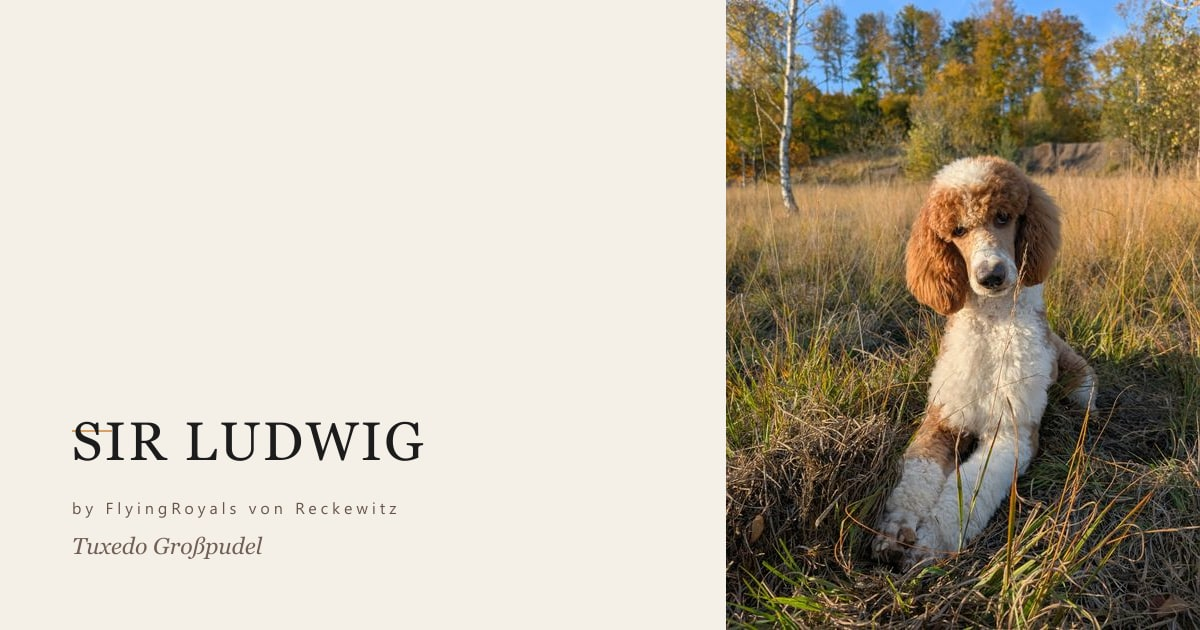
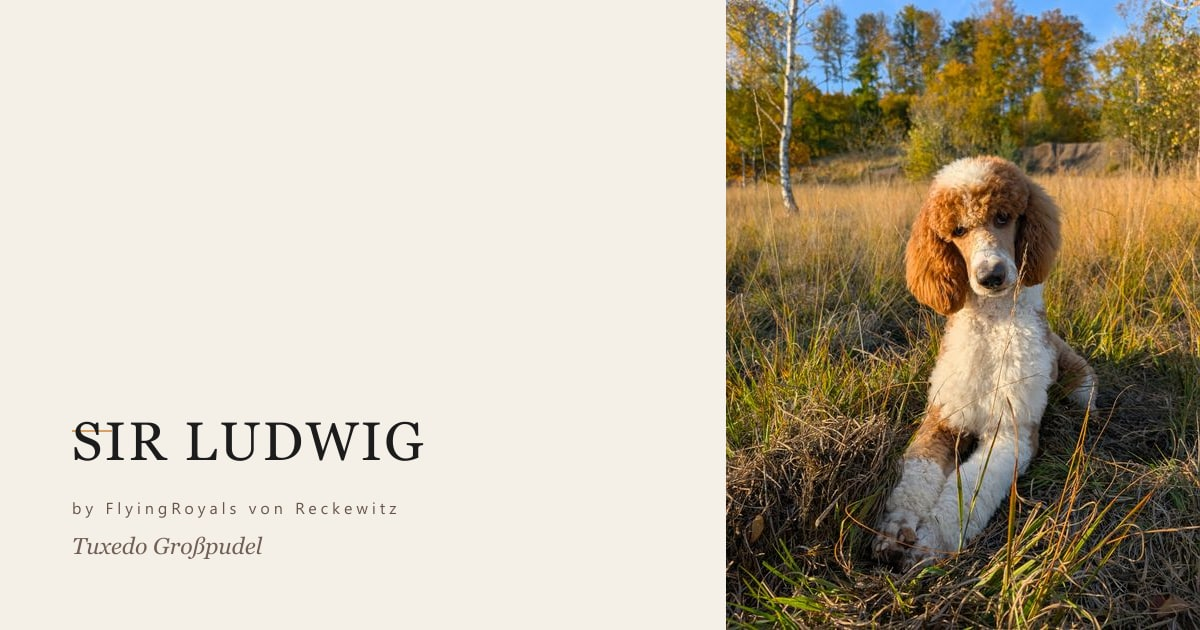
Extend richer apricot development to every Ludwig website photo

diff --git a/docs/bildauswahl-2026-10.md b/docs/bildauswahl-2026-10.md
@@ -5,23 +5,25 @@ Ordner „Ludwig“ die Oktober-Serie. Alle Dateien wurden erneut dekodiert und 
 den ursprünglichen SHA-256-Prüfsummen abgeglichen. Die visuelle Sichtung erfolgte
 auf 13 größeren Bögen mit je acht Fotos, ergänzt durch größere Ansichten der
 ausgewählten Motive. Eine 100-Prozent-Pixelprüfung jedes Fotos wird nicht behauptet.
-Klassische Bearbeitung, seit 3. November als Referenzlook 02: Die individuellen
-Weißabgleich- und Belichtungskorrekturen bleiben die Basis. Eine etwas kräftigere,
-sanfte Helligkeitskurve betont die Fellzeichnung; zusätzliche Wärme ist gering
-und wird in neutralen und sehr hellen Bereichen zurückgenommen. Apricot und Weiß
-bleiben natürlich, die Sättigung unverändert. Zurückhaltende Luminanzschärfung.
-Für die sechs Schattenmotive in „Spiel & Alltag“ wurde der Look anschließend
-auf Wunsch verstärkt: zusätzlicher Weißabgleich gegen den Blaustich,
-etwas kräftigere Helligkeitskurve und +0,04 EV zum Erhalt der Schattenzeichnung.
-Die vorhandenen Bildausschnitte bleiben erhalten; der Landschaftsausschnitt
-auf der Startseite wird aus derselben Entwicklung erzeugt. Parameter je Datei
-unter development_adjustments (Version 3) in foto-provenienz.json.
-Auf weiteren Wunsch nach kräftigerem Apricot nutzt die Alltag-Serie jetzt
-Version 4: etwas wärmerer Weißabgleich, Kontrastexponent 1,18 und maximal
-15 Prozent mehr Farbtiefe in bereits vorhandenen warmen Farben. Die Anpassung
-wird in nahezu neutralen Weißbereichen ausgeblendet; kühle Farben erhalten
-keine zusätzliche Sättigung. Es wird kein Farbton ersetzt und keine Fellmaske
-gemalt. Alle Einstellungen stehen je Datei in foto-provenienz.json.
+Alle 18 ausgewählten Website-Motive tragen auf ausdrücklichen Wunsch den
+kräftigeren Apricot-Look, einschließlich der Startseite, aller Teaser, des
+Ludwig-Profils, des Farbrechners und der Vorschaubilder für geteilte Links.
+Die klassischen Weißabgleich- und Belichtungskorrekturen der Originale bleiben
+die Basis. Eine sanfte Helligkeitskurve betont die Fellzeichnung; bereits
+vorhandene warme Farben erhalten maximal 15 Prozent mehr Farbtiefe. Die
+Farbanpassung wird in nahezu neutralen Weißbereichen ausgeblendet; kühle
+Farben erhalten keine zusätzliche Sättigung. Es wird kein Farbton ersetzt und
+keine Fellmaske gemalt. Zurückhaltende Luminanzschärfung.
+
+Die Korrekturstärke berücksichtigt das Licht: Bei den bereits warmen
+Sonnenaufnahmen ist der zusätzliche Weißabgleich sehr gering, der
+Kontrastexponent beträgt 1,14. Gegenlicht- und Porträtmotive verwenden 1,15
+mit +0,02 bis +0,04 EV. Die sechs Schattenmotive aus „Spiel & Alltag“ behalten
+ihren bereits abgestimmten stärkeren Weißabgleich, 1,18 Kontrast und +0,04 EV.
+Der Landschaftsausschnitt auf der Startseite stammt aus derselben Entwicklung
+wie sein Hochformat in der Galerie. Die früheren Referenzlooks bleiben separat
+erhalten. Alle Parameter stehen je Datei unter development_adjustments in
+foto-provenienz.json (Version 4 für Alltag, Version 5 für die übrigen Motive).
 Keine generative KI, keine Umfärbung oder Formänderung, keine Wasserzeichen.
 Die gelieferten Dateien sind JPEGs; „RAW“ im Namen ist keine RAW-Datei.
 Originaldateien bleiben außerhalb des Repositorys unverändert erhalten.
